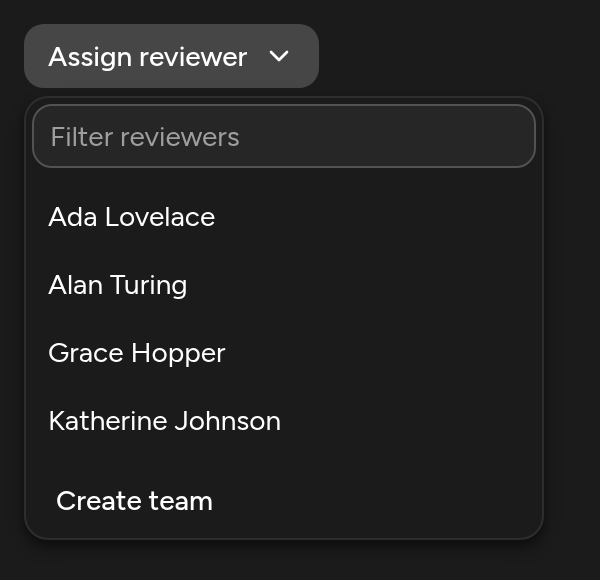
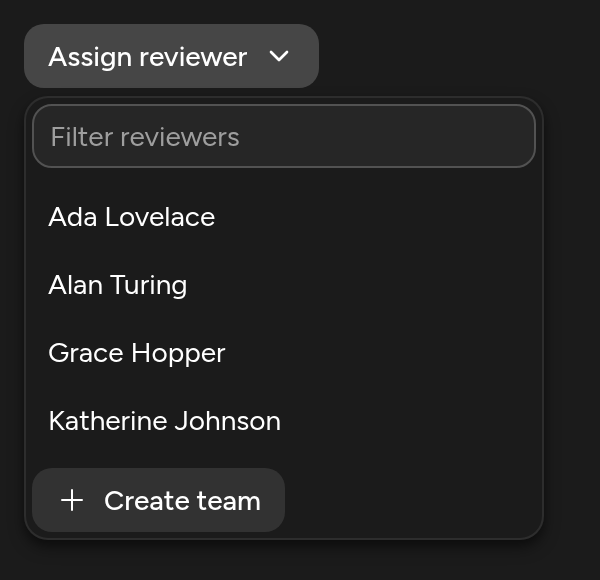
docs: refine v0.7.0 overlay evidence

Changed region(s): [[0.09, 0.8379, 0.45, 0.9]]

diff --git a/apps/docsite/src/__tests__/v070-blog-snippets.typecheck.tsx b/apps/docsite/src/__tests__/v070-blog-snippets.typecheck.tsx
@@ -1,7 +1,7 @@
 // Copyright (c) Meta Platforms, Inc. and affiliates.
 
 import {useState} from 'react';
-import {ArrowUpTrayIcon} from '@heroicons/react/24/outline';
+import {ArrowUpTrayIcon, PlusIcon} from '@heroicons/react/24/outline';
 import * as stylex from '@stylexjs/stylex';
 import {Banner} from '@astryxdesign/core/Banner';
 import {BottomSheet} from '@astryxdesign/core/BottomSheet';
@@ -159,7 +159,12 @@ export function Overlays() {
           />
         }
         footer={
-          <Button label="Create team" variant="ghost" onClick={createTeam} />
+          <Button
+            label="Create team"
+            variant="secondary"
+            icon={<Icon icon={PlusIcon} />}
+            onClick={createTeam}
+          />
         }
         items={reviewerActions}
       />

diff --git a/apps/docsite/src/content/blog/posts/astryx-v0-7-0.md b/apps/docsite/src/content/blog/posts/astryx-v0-7-0.md
@@ -77,11 +77,13 @@ Menus place real controls beside their rows while screen readers still hear a no
 
 ### Put controls beside menu rows
 
-![An open Assign reviewer dropdown. A Filter reviewers text field sits above the four name rows and a Create team button sits below them, all inside the same popover.](/blog/astryx-v0-7-0/menu-header-footer.png)
+![An open Assign reviewer dropdown. A Filter reviewers text field sits above the four name rows, and below them a Create team button with a plus icon, all inside the same popover.](/blog/astryx-v0-7-0/menu-header-footer.png)
 
 _Header and footer controls stay outside the menu itself, so screen readers hear a normal menu and Tab reaches each region in order._
 
 ```tsx
+import {PlusIcon} from '@heroicons/react/24/outline';
+
 <DropdownMenu
   button={{label: 'Assign reviewer'}}
   header={
@@ -93,16 +95,23 @@ _Header and footer controls stay outside the menu itself, so screen readers hear
       onChange={setQuery}
     />
   }
-  footer={<Button label="Create team" variant="ghost" onClick={createTeam} />}
+  footer={
+    <Button
+      label="Create team"
+      variant="secondary"
+      icon={<Icon icon={PlusIcon} />}
+      onClick={createTeam}
+    />
+  }
   items={reviewerActions}
-/>
+/>;
 ```
 
 ### Drill into submenus on a phone
 
 ![A phone screen with an Actions menu open under its button. A finger taps the Move to row, which has a chevron, and the menu's rows are replaced in place by a Back to Actions row followed by Backlog and Next release. Tapping Back returns to the first set of rows.](/blog/astryx-v0-7-0/mobile-submenu-drill-in.webp)
 
-_Submenus replace the current rows instead of opening an off-screen flyout, with a Back row named for the menu it returns to._
+_Opened by touch, a sub-menu drills into the current rows, with a Back row named for the menu it returns to. With a mouse it still opens as a flyout; set `presentation` on `DropdownMenuSubMenu` to force either mode._
 
 ```tsx
 <DropdownMenu button={{label: 'Actions'}}>
@@ -115,11 +124,10 @@ _Submenus replace the current rows instead of opening an off-screen flyout, with
 </DropdownMenu>
 ```
 
-### Close the top layer first
+### Keep nested layers in order
 
-![A phone screen with a bottom sheet open over a dimmed page; inside the sheet an Assign reviewer menu is opened. The first Escape press closes only the menu and the sheet stays. The second Escape press slides the sheet away and the page is back.](/blog/astryx-v0-7-0/sheet-escape-order.webp)
-
-The `Esc` keycap is added to show each press; one press closes only the inner menu, and the next closes the sheet.
+- **Layers and dialogs:** Escape closes the top layer first for menus, popovers, and dialogs inside a sheet. Nested layers stay inside their nearest dialog, and Dialog focus follows the last keyboard, mouse, or touch input as it opens and returns.
+- **Toasts:** They stay visible and clickable above open dialogs.
 
 ### Give BottomSheet content room
 
@@ -524,7 +532,7 @@ _Spacing tokens use rem (`--spacing-N` = N × 0.25rem), so padding and gaps foll
 
 The row-expansion chevron also stays centered in its fixed column.
 
-**Pending merge — [#7374](https://github.com/facebook/astryx/pull/7374):** Matcha and Y2K will move their own spacing steps to rem so every first-party theme follows the same rule.
+Matcha and Y2K's own spacing steps are rem too, so every first-party theme follows the same rule.
 
 ## Accessibility and localization
 
@@ -537,6 +545,8 @@ Keyboard users can reach overflowing sheet content and keep visible focus cues a
 _The pointer icon is added to show mouse input. Dialog's initial focus and the focus it returns on close follow the last input: the indicator shows after keyboard use and stays hidden after a mouse click or tap._
 
 ### Announce an async outcome
+
+Previously, Banner's visual `status` automatically chose a live-region role, so the banner's appearance—not the async action—decided when screen readers heard it. Banners are now quiet by default; announce once from the action that finished, or set a role when the Banner itself is the persistent message.
 
 ```tsx
 import {Banner} from '@astryxdesign/core/Banner';
@@ -673,7 +683,7 @@ The highest-traffic API changes look like this:
 22. **Phone typography starts at 16px** ([#6699](https://github.com/facebook/astryx/pull/6699)) — take the new Neutral, Chocolate, Butter, and Stone scale as-is, or add a later touch-and-narrow rule to keep 14px or your own scale; no codemod.
 23. **`emptySearchResultsText` is removed** (pending [#7289](https://github.com/facebook/astryx/pull/7289)) — rename it to `emptySearchText`; `rename-empty-search-results-text` handles supported components and static trigger objects.
 24. **Core spacing follows the root font size** ([#7359](https://github.com/facebook/astryx/pull/7359)) — CSS variable users need no change; code that parses px converts rem with the root size or reads the computed length; no codemod.
-25. **Matcha and Y2K spacing follows the root font size** (pending [#7374](https://github.com/facebook/astryx/pull/7374)) — take the new default, which is pixel-equal at a 16px root, or override the spacing tokens in px to keep fixed sizing; no codemod.
+25. **Matcha and Y2K spacing follows the root font size** ([#7374](https://github.com/facebook/astryx/pull/7374)) — take the new default, which is pixel-equal at a 16px root, or override the spacing tokens in px to keep fixed sizing; no codemod.
 26. **Doctor fails on unloadable configured projects** (pending [#7130](https://github.com/facebook/astryx/pull/7130)) — install or repair the named integration, remove it from config, or fix the config field in the error; no codemod.
 
 ## Thank you
